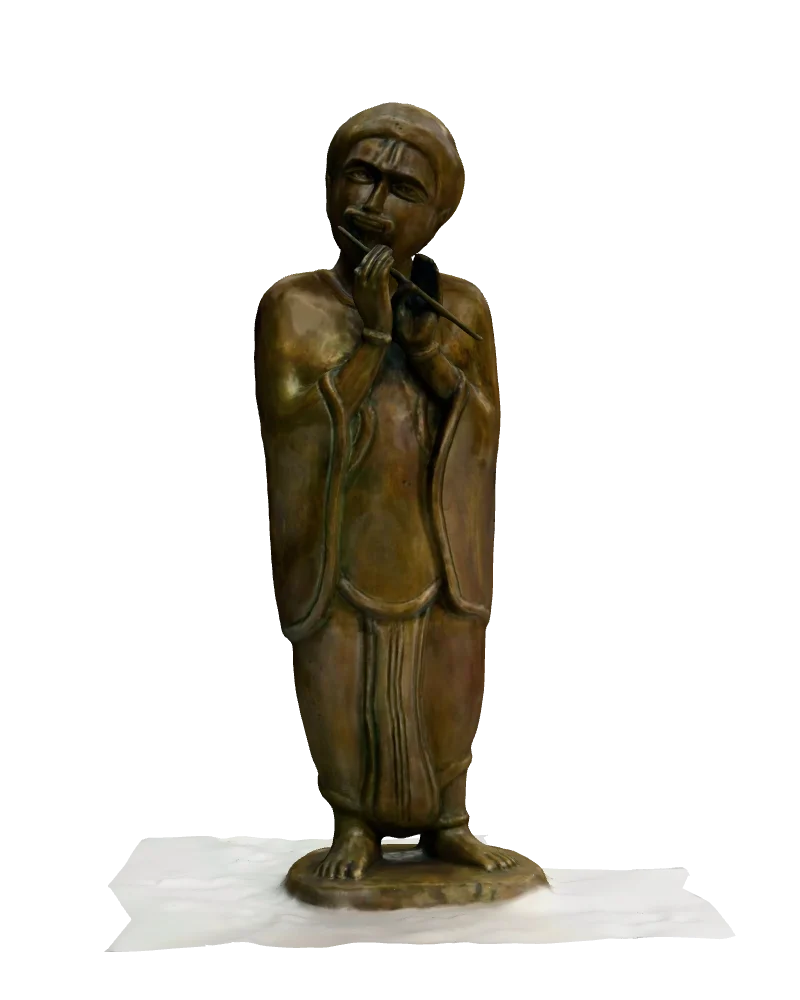
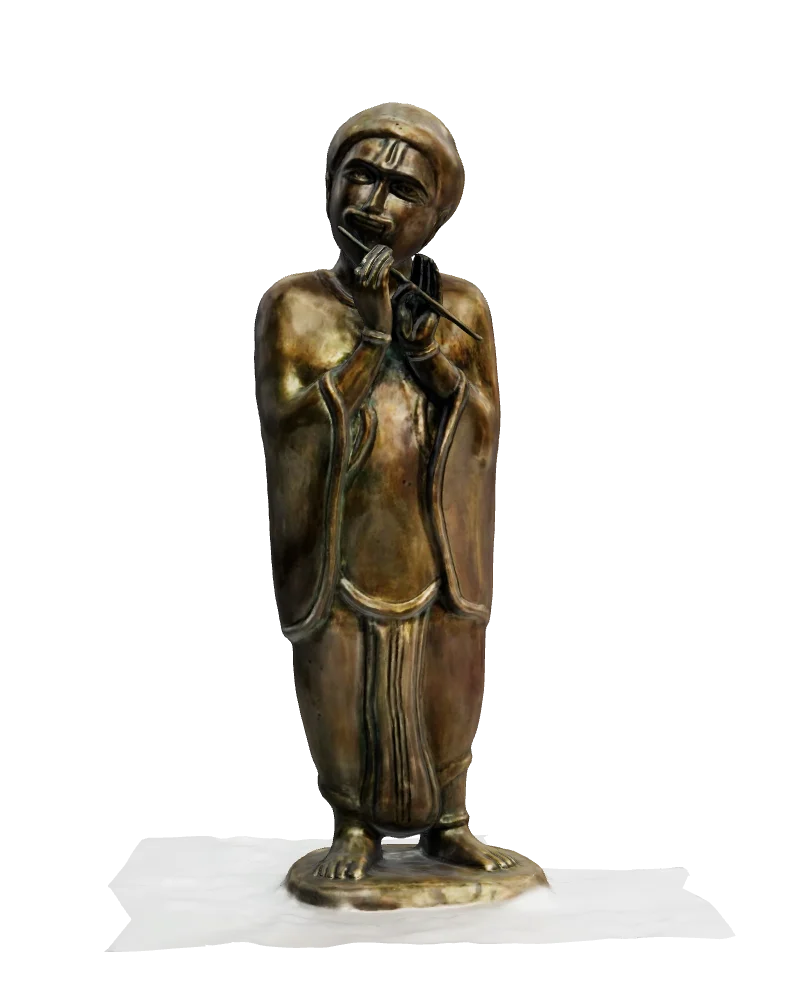
Old light back on Lord Krishna, Pandit and Dancing Shiva
A work can now pick another light rig with `look.rig`; these three use
"previous", the earlier filmic studio light, and nothing else. Tone
mapping is set per scene before each frame, so the hover previews that
share one renderer show each work with its own. Thumbnails remade.

Changed region(s): [[0.3125, 0.093, 0.6875, 0.961], [0.375, 0.713, 0.4062, 0.775]]

diff --git a/components/SculptureScene.tsx b/components/SculptureScene.tsx
@@ -24,7 +24,7 @@ import { DRACO_PATH, hasRevealed, markRevealed } from "./three/modelLoader";
 import StudioEnvironment from "./three/StudioEnvironment";
 import { setupRenderer } from "./three/renderer";
 import type { ArtworkLook } from "@/lib/sculptures";
-import { rigFor } from "./three/lighting";
+import { rigFor, type LightRig } from "./three/lighting";
 
 // Neutral grey for the wireframe scaffold during the reveal.
 const WIRE_COLOR = "#5c5c5c";
@@ -429,6 +429,19 @@ const RevealModel: FC<{
 };
 
 /**
+ * Tone mapping and exposure belong to the renderer, and the grid's hover
+ * previews share one (TilePreview), so each scene sets its own before every
+ * frame; three recompiles a material's shader only when they change.
+ */
+const RendererLook: FC<{ rig: LightRig }> = ({ rig }) => {
+  useFrame(({ gl }) => {
+    gl.toneMapping = rig.toneMapping;
+    gl.toneMappingExposure = rig.exposure;
+  });
+  return null;
+};
+
+/**
  * Everything inside the canvas: camera, lights, studio reflections, the model
  * and controls. Shared by SculptureScene (its own canvas: viewer, thumbnails)
  * and TilePreview (the grid's shared renderer), so every view of a work is
@@ -461,10 +474,11 @@ export const SculptureContents: FC<
 }) => {
   const camZ = 4.0 / (defaultZoom <= 0 ? 1 : defaultZoom);
   const light = look?.light ?? 1;
-  const rig = rigFor(rigName);
+  const rig = rigFor(rigName ?? look?.rig);
   return (
     <>
       <PerspectiveCamera makeDefault position={[0, 0, camZ]} fov={35} />
+      <RendererLook rig={rig} />
 
       {/* Deterministic studio lighting (components/three/lighting.ts). */}
       {rig.hemisphere.intensity > 0 && (
@@ -592,7 +606,7 @@ const SculptureScene: FC<SculptureSceneProps> = ({
           preserveDrawingBuffer: isThumb,
           localClippingEnabled: true,
         }}
-        onCreated={({ gl }) => setupRenderer(gl, rigFor(props.rig))}
+        onCreated={({ gl }) => setupRenderer(gl, rigFor(props.rig ?? props.look?.rig))}
       >
         <SculptureContents
           {...props}

diff --git a/lib/sculptures.ts b/lib/sculptures.ts
@@ -84,6 +84,11 @@ export interface ArtworkLook {
    * as 0, which leaves dark paint flat whatever the light; 1 is ordinary paint.
    */
   specular?: number;
+  /**
+   * Use another light rig instead of the shared one (components/three/lighting.ts):
+   * "previous" is the earlier filmic studio light.
+   */
+  rig?: "previous";
 }
 
 /** AR height for works whose real height (`heightCm`) isn't known yet. */
@@ -115,8 +120,8 @@ export const sculptures: Sculpture[] = [
     title: "Lord Krishna",
     description: "",
     modelUrl: "/sculptures/LordKrishna.glb",
-    look: { metalness: 0.5, roughness: 1.3 },
-    thumbnail: "/thumbnails/lord-krishna.webp?v=3",
+    look: { rig: "previous" },
+    thumbnail: "/thumbnails/lord-krishna.webp?v=4",
     artistSlug: "thota-vaikuntam",
     featured: true,
     material: "",
@@ -128,7 +133,8 @@ export const sculptures: Sculpture[] = [
     title: "Pandit",
     description: "",
     modelUrl: "/sculptures/Pandit.glb",
-    thumbnail: "/thumbnails/thota-pandit.webp?v=2",
+    look: { rig: "previous" },
+    thumbnail: "/thumbnails/thota-pandit.webp?v=3",
     artistSlug: "thota-vaikuntam",
     featured: false,
     material: "",
@@ -140,9 +146,9 @@ export const sculptures: Sculpture[] = [
     title: "Dancing Shiva",
     description: "A contemporary sculpture by Thota Vaikuntam.",
     modelUrl: "/sculptures/DancingShiva.glb",
-    look: { metalness: 0.5, roughness: 1.3 },
+    look: { rig: "previous" },
     facing: 290,
-    thumbnail: "/thumbnails/dancing-shiva.webp?v=3",
+    thumbnail: "/thumbnails/dancing-shiva.webp?v=4",
     artistSlug: "thota-vaikuntam",
     featured: true,
     material: "",

diff --git a/docs/lighting-progress.md b/docs/lighting-progress.md
@@ -18,6 +18,7 @@ Many scans looked "flashy". Painted works (Thota heads, Khanna bandsmen, …) we
   | `light` | multiplies every light |
   | `sideLights` | extra lights from left and right at face height (1 = key strength) |
   | `specular` | *sets* the paint's sheen 0–1 (fixes scans exported with 0) |
+  | `rig` | `"previous"` = use the old filmic light for this work (tone mapping set per scene, so it works in the shared hover renderer too) |
 
 - **Applied in** `components/SculptureScene.tsx`: `prepareMaterial` handles the material fixes for every work (transmission off, specular colour capped) plus `look`. `SculptureContents` builds the lights.
 - **Preview** without editing: `/artworks/thumb/<slug>?look={"light":1.2}&rig=previous&facing=90`.
@@ -34,11 +35,12 @@ User's taste: **matte and natural, not shiny**. The user judges each work by eye
 | … brighter | same, `light: 1.3` | Dotted Saree, Man with Mridangam |
 | Blue Saree | `{ metalness: 0.2, roughness: 1.6, reflections: 1.2, light: 1.6 }` | dark bronze skin needed lifting |
 | Blue Turban | `{ metalness: 0.15, roughness: 1.3, reflections: 1.2, light: 1.3, specular: 0.6, sideLights: 1 }` | black face showed no form |
-| Bronze | `{ metalness: 0.5, roughness: 1.3 }` | Krishna, Dancing Shiva, both Shah heads, Tirthankar, Levitation, Parekh |
+| Old light | `{ rig: "previous" }`: the earlier filmic studio light, nothing else changed | Lord Krishna, Pandit, Dancing Shiva (user preferred them as before) |
+| Bronze | `{ metalness: 0.5, roughness: 1.3 }` | both Shah heads, Tirthankar, Levitation, Parekh |
 | Bronze Long-Hair head | `{ metalness: 0.2, roughness: 1.8, reflections: 0.6 }` | the bronze setting still glared on its face |
 | Lady | `{ light: 1.8, reflections: 2.5, sideLights: 1 }` | dark patina read as dull black |
 | Glossy non-metal | `{ roughness: 2, reflections: 0.6 }` / `{ roughness: 1.8, reflections: 0.7 }` | Ghosh / Matar |
-| Untouched | — | Pandit, Seated Bandsman, Tailor, Cat, Man from Moon |
+| Untouched | — | Seated Bandsman, Tailor, Cat, Man from Moon |
 
 ## Changing a work
 1. Dev server: `npx next dev --webpack -p 3000` (Turbopack crashes on this machine).
